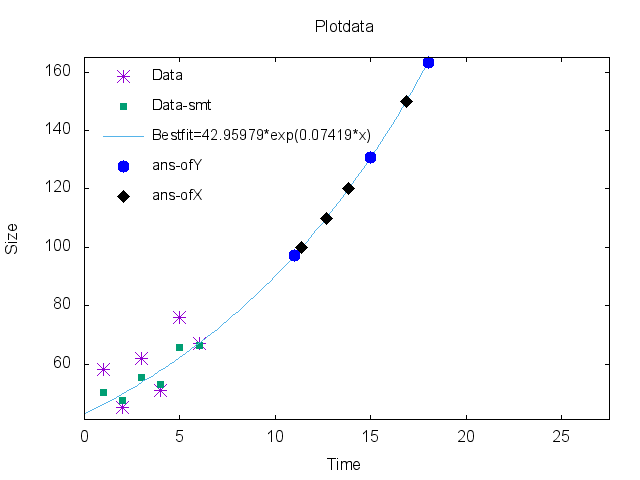
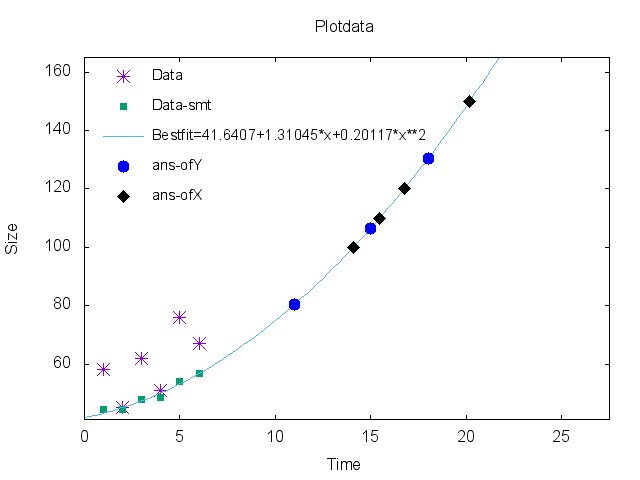
changes in testing for merge

diff --git a/testing.js b/testing.js
@@ -1,21 +1,4 @@
 'use strict';
-<<<<<<< HEAD
-var growth = require('./fit/bestfit'),
-    nsolve = require('./index'),
-    gnuplot= require('gnuplot'),
-    function_plot= require('./fit/fitFunction_to_gnuplot'),
-    commander = require('commander'),
-    writedata = require('./utils/writedata'),
-    fileplot  = ' "plotdata.png"',
-    path      = __dirname + '/plot.dat',
-    path_smt  = __dirname + '/plot_smt.dat',
-    initialpoint =  0.5 ,
-    interval =  [-3,5] ,
-    test_array= [[0,4],[1,5],[3,6],[4,8],[5,9],[6,10],[7,10],[8,9]],
-    test_query = [3.4, 4.8, 8.6, 9] ,
-    test_y     = [5,10,23,20] ,
-    array1 = [[0.8,0.5],
-=======
 var   growth = require('./fit/bestfit'),
       nsolve = require('./index'),
       gnuplot= require('gnuplot'),
@@ -33,7 +16,7 @@ var   growth = require('./fit/bestfit'),
       test_query = [11, 15, 18, 25] ,
       test_y     = [100,110,120,150] ,
       array1 = [[0.8,0.5],
->>>>>>> 4807e9b0c8acf7edaba39cda5dc3f077bbd8529b
+
               [0.2,0.5]],
               array2 = [[0.66],
               [0.34]],
@@ -57,23 +40,6 @@ var   growth = require('./fit/bestfit'),
      fit = growth(test_array,test_query,test_y, options_fit) ;
 
      writedata(path,test_array);
-<<<<<<< HEAD
-      writedata(path_smt,fit.fitPointsUsed);
-
-        gnuplot()
-        .set('term png')
-        .set('output ' +fileplot)
-        .set('title "Plotdata"')
-        .set('xlabel "Time"')
-        .set('ylabel "Medition"')
-        .set('key left Left reverse spacing 6')
-        .set('xrange ['+test_array[0][0]+':'+1.1*test_array[test_array.length-1][0]+'] ')
-        .set('yrange ['+test_array[0][1]+':'+1.5*test_array[test_array.length-1][1]+'] ')
-        .set('zeroaxis')
-        .plot('"./plot.dat" u 1:2 pt 8 t "Data",'+'"./plot_smt.dat" u 1:2 pt 5 t "Data-smt",'+function_plot(fit.fitUsed,fit.fitParamsUsed)+' t "Bestfit='+function_plot(fit.fitUsed,fit.fitParamsUsed)+'"')
-        .set(' output')
-        .end();
-=======
      writedata(path_smt,fit.fitPointsUsed);
       writedata(path_ansX,fit.ans_ofX);
       writedata(path_ansY,fit.ans_ofY);
@@ -93,8 +59,6 @@ var   growth = require('./fit/bestfit'),
      )
      .set(' output')
      .end();
->>>>>>> 4807e9b0c8acf7edaba39cda5dc3f077bbd8529b
-
 //console.log(
   //'Solve the equation x⁵-16x⁴+2x³-20x²+6x-7-1.6 e^(-4x²) = 0 with initial point random selected  in an interval [-100,100] with a number maximum of steps of 1000 and 1000 partitions on the calculus of numerical derivative.'
 //);
